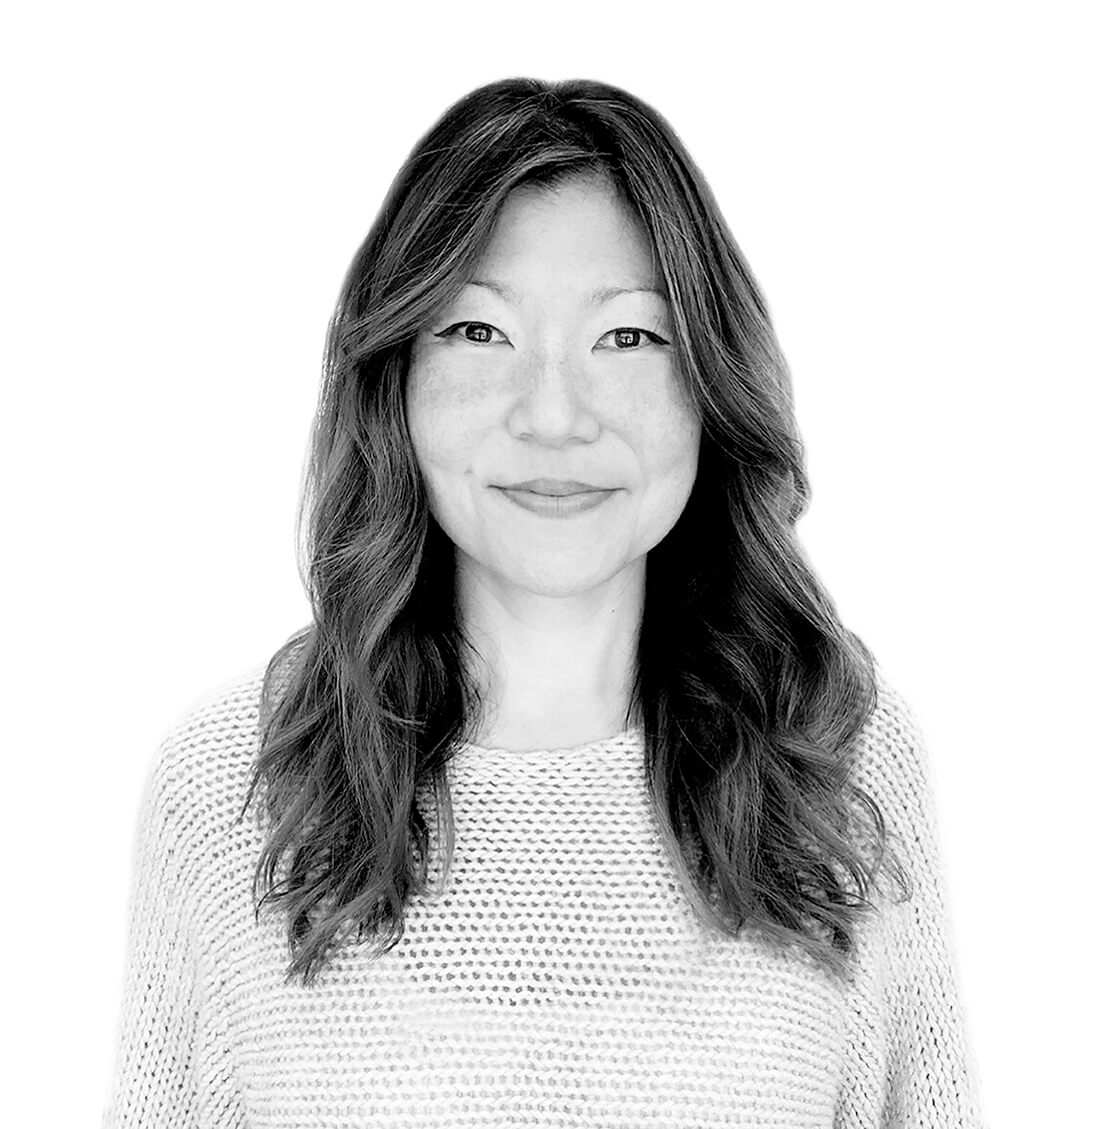
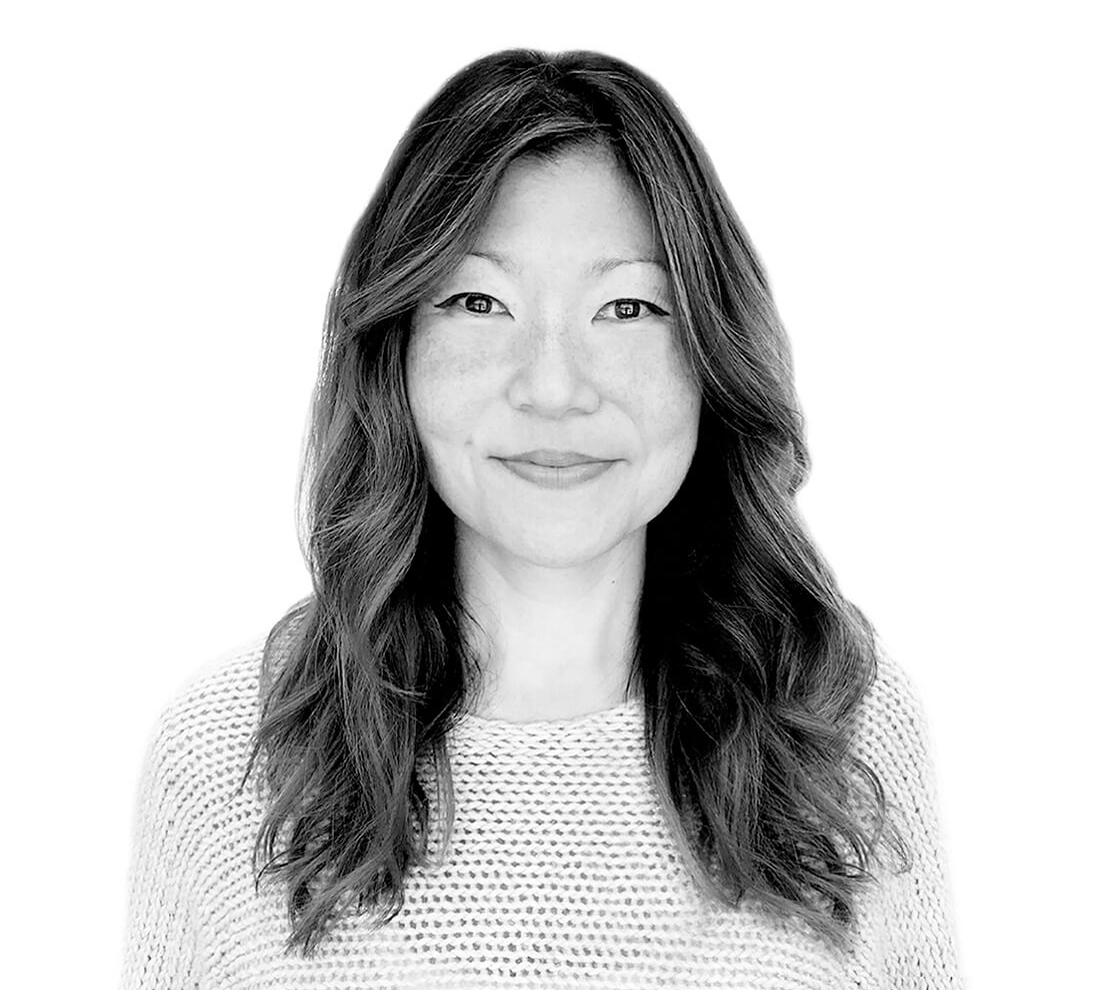
about updated

Changed region(s): [[0.0927, 0.0303, 0.8964, 1.0]]

diff --git a/about.html b/about.html
@@ -60,8 +60,8 @@
 
       <div id="about">
         <div class="container">
-          <div class="col-12">
-            <div class="row">
+          <div class="row">
+            <div class="col-6">
               <div class="mePics1">
                 <picture>
                   <source
@@ -74,139 +74,150 @@
                   />
                 </picture>
               </div>
-            </div>
-
-            <!------------------------------ ABOUT text -------------------------------->
-
-            <div class="row">
-              <p>
-                Hello! I’m a born & raised Houstonian who, like many other proud
-                Texans, feels that Texas is its own country. I grew up watching
-                my aunt paint and my brother draw, but my journey as a designer
-                began when I fell in love with artist Henri Matisse’s graphical
-                cut-outs. This inspired me down the creative path to graphic
-                design, which has grown to expand and share the digital world of
-                UI design.
-              </p>
-              <br />
-              <p>
-                Past colleagues called me “Eagle Eyes” because I have a sharp
-                grasp for detail and well-designed aesthetics. In my former role
-                as a senior visual designer at Nokia, I gained experience
-                collaborating with global teams consisting of interdisciplinary
-                backgrounds that spanned from diverse creatives, specialists,
-                engineers, project managers, and thinkers.
-              </p>
-              <br />
-              <p>
-                After working with a few global companies and numerous freelance
-                jobs, I’m excited to bring this breadth of my well-roundedness
-                expertise to the field of UX/UI design, which feels like a
-                natural progression of my strengths and interests.
-              </p>
-              <br />
-              <p>
-                I’m currently continuing my education with front-end development
-                (HTML, CSS, JavaScript), reading and taking in visual research,
-                attending design-related events, participating in daily UI tasks
-                to keep my skills fresh and continue learning, improving, and
-                evolving.
-              </p>
-              <br />
-              <p>
-                I'm interested in new opportunities and would love to be in
-                touch!
-              </p>
-
-              <div class="hiddenOnMobile">
-                <div class="mePics2">
-                  <picture>
-                    <source
-                      srcset="./img/2-about/2-about-imgs/about-my-kiko@1.jpg"
-                      media="(max-width:767px)"
-                    />
-                    <img
-                      src="./img/2-about/2-about-imgs/about-my-kiko@2.jpg"
-                      alt="(photo of Tasha H. Kim)"
-                    />
-                  </picture>
-                </div>
-                <br />
-                <ul>
-                  <li><p>Love to laugh and be around positive others.</p></li>
-                  <li><p>Adore my feisty Norwich Terrier, Kiko.</p></li>
-                  <li>
-                    <p>Lifelong foodie— I live to eat, not eat to live.</p>
-                  </li>
-                  <li><p>Enjoy strike-fit kickboxing.</p></li>
-                </ul>
-                <br />
-              </div>
-            </div>
-
-            <br />
-
-            <div class="row">
-              <div class="hiddenOnMobile">
-                <h3>SKILLS</h3>
-                <ul>
-                  <li><p>Competitor Research</p></li>
-                  <li><p>User Research</p></li>
-                  <li><p>User Personas</p></li>
-                  <li><p>Storyboard Sketching</p></li>
-                  <li><p>User Flow Diagrams</p></li>
-                  <li><p>UI Wireframing</p></li>
-                  <li><p>Prototyping</p></li>
-                  <li><p>Usability Testing</p></li>
-                  <li><p>A|B & Preference Testing</p></li>
-                  <li><p>Responsive Web Design</p></li>
-                  <li><p>Brand/ Style Guides</p></li>
-                  <li><p>Graphic | Visual Design</p></li>
-                  <li><p>Style | Moodboards</p></li>
-                  <li><p>Typography</p></li>
-                  <li><p>Icon Design</p></li>
-                  <li><p>HTML | CSS | JavaScript</p></li>
-                </ul>
-
-                <br />
-                <div class="row">
-                  <h3>TOOLS</h3>
-                  <ul>
-                    <li><p>Sketch</p></li>
-                    <li><p>XD</p></li>
-                    <li><p>Figma</p></li>
-                    <li><p>InVision</p></li>
-                    <li><p>Marvel</p></li>
-                    <li><p>Balsamiq</p></li>
-                    <li><p>Illustrator</p></li>
-                    <li><p>Photoshop</p></li>
-                    <li><p>InDesign</p></li>
-                    <li><p>UsabilityHub</p></li>
-                    <li><p>Atom</p></li>
-                    <li><p>Visual Studio Code</p></li>
-                    <li><p>Git/GitHub</p></li>
-                  </ul>
-                </div>
+              <div class="mePics2">
+                <picture>
+                  <source
+                    srcset="./img/2-about/2-about-imgs/about-my-kiko@1.jpg"
+                    media="(max-width:767px)"
+                  />
+                  <img
+                    src="./img/2-about/2-about-imgs/about-my-kiko@2.jpg"
+                    alt="(photo of Tasha H. Kim)"
+                  />
+                </picture>
               </div>
             </div>
           </div>
 
-          <div class="resumeDownloadSection">
-            <div class="row">
-              <div class="col-12">
-                <div class="yellowBoxButton">
-                  <a
-                    href="./files/tasha-kim-resume-010421.pdf"
-                    target="_blank"
-                    class="button"
-                    >DOWNLOAD | RESUME</a
-                  >
-                  <img
-                    class="yellowBox"
-                    src="./img/1-home/1-imgs/yellow-box.svg"
-                    alt="yellow-box"
+          <!------------------------------ ABOUT text -------------------------------->
+
+          <div class="row">
+            <p>
+              Hello! I’m a born & raised Houstonian who, like many other proud
+              Texans, feels that Texas is its own country. I grew up watching my
+              aunt paint and my brother draw, but my journey as a designer began
+              when I fell in love with artist Henri Matisse’s graphical
+              cut-outs. This inspired me down the creative path to graphic
+              design, which has grown to expand and share the digital world of
+              UI design.
+            </p>
+            <br />
+            <p>
+              Past colleagues called me “Eagle Eyes” because I have a sharp
+              grasp for detail and well-designed aesthetics. In my former role
+              as a senior visual designer at Nokia, I gained experience
+              collaborating with global teams consisting of interdisciplinary
+              backgrounds that spanned from diverse creatives, specialists,
+              engineers, project managers, and thinkers.
+            </p>
+            <br />
+            <p>
+              After working with a few global companies and numerous freelance
+              jobs, I’m excited to bring this breadth of my well-roundedness
+              expertise to the field of UX/UI design, which feels like a natural
+              progression of my strengths and interests.
+            </p>
+            <br />
+            <p>
+              I’m currently continuing my education with front-end development
+              (HTML, CSS, JavaScript), reading and taking in visual research,
+              attending design-related events, participating in daily UI tasks
+              to keep my skills fresh and continue learning, improving, and
+              evolving.
+            </p>
+            <br />
+            <p>
+              I'm interested in new opportunities and would love to be in touch!
+            </p>
+
+            <div class="hiddenOnMobile">
+              <div class="mePics2">
+                <picture>
+                  <source
+                    srcset="./img/2-about/2-about-imgs/about-my-kiko@1.jpg"
+                    media="(max-width:767px)"
                   />
-                </div>
+                  <img
+                    src="./img/2-about/2-about-imgs/about-my-kiko@2.jpg"
+                    alt="(photo of Tasha H. Kim)"
+                  />
+                </picture>
+              </div>
+              <br />
+              <ul>
+                <li><p>Love to laugh and be around positive others.</p></li>
+                <li><p>Adore my feisty Norwich Terrier, Kiko.</p></li>
+                <li>
+                  <p>Lifelong foodie— I live to eat, not eat to live.</p>
+                </li>
+                <li><p>Enjoy strike-fit kickboxing.</p></li>
+              </ul>
+              <br />
+            </div>
+          </div>
+
+          <br />
+
+          <div class="row">
+            <div class="hiddenOnMobile">
+              <h3>SKILLS</h3>
+              <ul>
+                <li><p>Competitor Research</p></li>
+                <li><p>User Research</p></li>
+                <li><p>User Personas</p></li>
+                <li><p>Storyboard Sketching</p></li>
+                <li><p>User Flow Diagrams</p></li>
+                <li><p>UI Wireframing</p></li>
+                <li><p>Prototyping</p></li>
+                <li><p>Usability Testing</p></li>
+                <li><p>A|B & Preference Testing</p></li>
+                <li><p>Responsive Web Design</p></li>
+                <li><p>Brand/ Style Guides</p></li>
+                <li><p>Graphic | Visual Design</p></li>
+                <li><p>Style | Moodboards</p></li>
+                <li><p>Typography</p></li>
+                <li><p>Icon Design</p></li>
+                <li><p>HTML | CSS | JavaScript</p></li>
+              </ul>
+
+              <br />
+              <div class="row">
+                <h3>TOOLS</h3>
+                <ul>
+                  <li><p>Sketch</p></li>
+                  <li><p>XD</p></li>
+                  <li><p>Figma</p></li>
+                  <li><p>InVision</p></li>
+                  <li><p>Marvel</p></li>
+                  <li><p>Balsamiq</p></li>
+                  <li><p>Illustrator</p></li>
+                  <li><p>Photoshop</p></li>
+                  <li><p>InDesign</p></li>
+                  <li><p>UsabilityHub</p></li>
+                  <li><p>Atom</p></li>
+                  <li><p>Visual Studio Code</p></li>
+                  <li><p>Git/GitHub</p></li>
+                </ul>
+              </div>
+            </div>
+          </div>
+        </div>
+
+        <div class="resumeDownloadSection">
+          <div class="row">
+            <div class="col-12">
+              <div class="yellowBoxButton">
+                <a
+                  href="./files/tasha-kim-resume-010421.pdf"
+                  target="_blank"
+                  class="button"
+                  >DOWNLOAD | RESUME</a
+                >
+                <img
+                  class="yellowBox"
+                  src="./img/1-home/1-imgs/yellow-box.svg"
+                  alt="yellow-box"
+                />
               </div>
             </div>
           </div>

diff --git a/css/style.css b/css/style.css
@@ -330,10 +330,11 @@ header .container {
   box-shadow: 0px 5px 6px 0px rgba(155, 161, 163, 0.35);
   margin-bottom: 14px;
   line-height: 0;
+  display: inline-block;
 }
-/* .mePics2 {
-  padding: 0 16px;
-}  */
+.mePics2 {
+  display: none;
+}
 
 #about .yellowBoxButton {
   display: inline-block;
@@ -649,6 +650,18 @@ a:active {
 Medium devices (640px and larger)
 ================================= */
 @media only screen and (min-width: 640px) {
+  .mePics1 {
+    border: 5px solid #000;
+  }
+  .mePics2 {
+    border: 5px solid #000;
+    -webkit-box-shadow: 0px 5px 6px 0px rgba(155, 161, 163, 0.35);
+    -moz-box-shadow: 0px 5px 6px 0px rgba(155, 161, 163, 0.35);
+    box-shadow: 0px 5px 6px 0px rgba(155, 161, 163, 0.35);
+    margin-bottom: 14px;
+    line-height: 0;
+    display: inline-block;
+  }
 }
 /* ==============================
 Large devices (1024px or larger)
